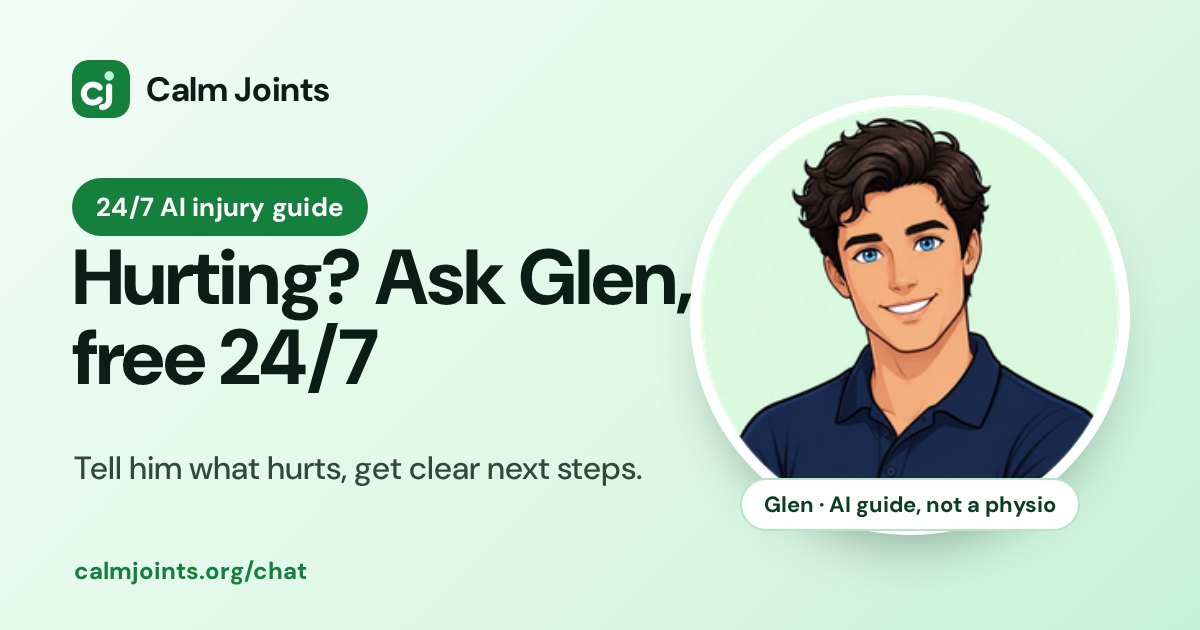
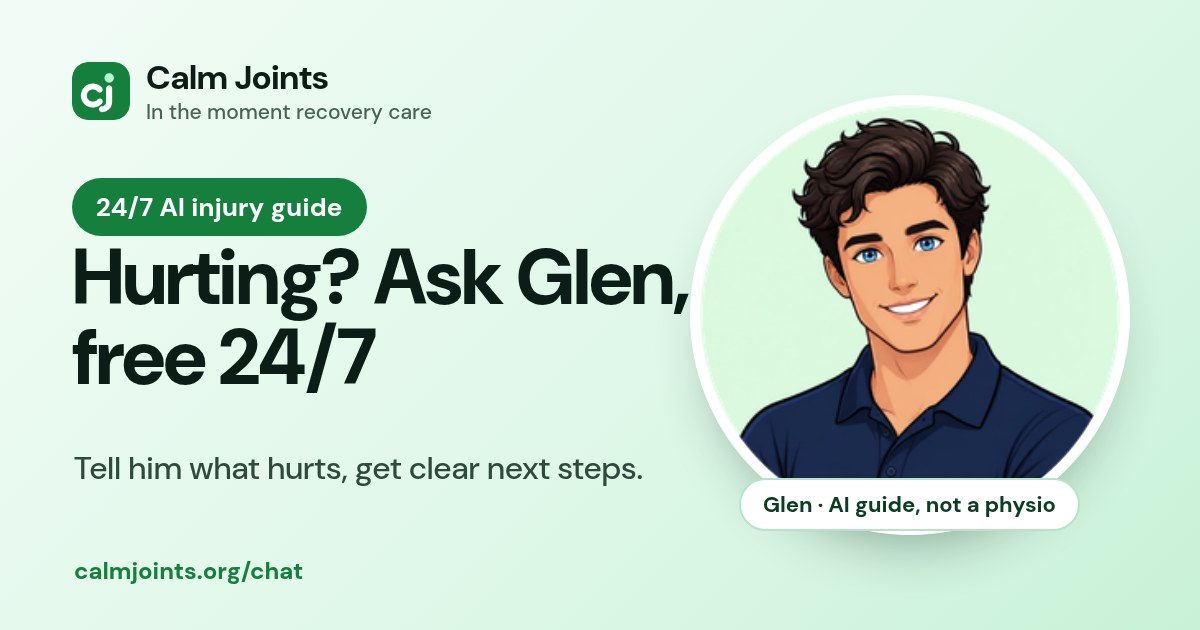
Slogan: 'In the moment recovery care' under the wordmark in the site header (home, partners, blog), the guide/chat header, and the /chat share image

diff --git a/blog/is-walking-good-for-hip-arthritis.html b/blog/is-walking-good-for-hip-arthritis.html
@@ -27,9 +27,9 @@ details{border-bottom:1px solid var(--line);padding:.8rem 0}summary{font-weight:
 .card div{padding:1rem 1.2rem 1.3rem}.card h2{font-size:1.25rem;margin:.3rem 0 .5rem}.card p{color:var(--mute);margin:0;font-size:.98rem}
 .related a{display:block;margin:.4rem 0}
 footer{border-top:1px solid var(--line);margin-top:3rem;padding:2rem 0;color:var(--mute);font-size:.9rem}
-</style><script type="application/ld+json">{"@context": "https://schema.org", "@graph": [{"@type": "Article", "headline": "Is walking good for hip arthritis? What the research says", "description": "Walking is usually a good option for hip arthritis if you pace it. See what research shows, how to start, and when to book virtual physio in Canada.", "datePublished": "2026-10-01", "dateModified": "2026-10-01", "author": {"@type": "Organization", "name": "Calm Joints clinical team"}, "publisher": {"@type": "Organization", "name": "Calm Joints", "logo": {"@type": "ImageObject", "url": "https://calmjoints.org/media/icon-512.png"}}, "mainEntityOfPage": "https://calmjoints.org/blog/is-walking-good-for-hip-arthritis", "image": "https://calmjoints.org/media/blog/is-walking-good-for-hip-arthritis.svg", "citation": ["https://pubmed.ncbi.nlm.nih.gov/31278997/", "https://www.jospt.org/doi/10.2519/jospt.2025.0301", "https://arthritis.ca/wp-content/uploads/2025/07/OA_Condensed_Booklet_EN_June26-2024_digital.pdf", "https://www.cochrane.org/evidence/CD007912_exercise-effective-therapy-hip-osteoarthritis", "https://pubmed.ncbi.nlm.nih.gov/27129607/", "https://www.jospt.org/doi/10.2519/jospt.2025.13366", "https://arthritis.ca/support-education/local-support/arthritis-rehabilitation-education-program/", "https://www.nhs.uk/conditions/hip-pain/"]}, {"@type": "FAQPage", "mainEntity": [{"@type": "Question", "name": "Is walking good for hip arthritis?", "acceptedAnswer": {"@type": "Answer", "text": "Yes for most people. Guidelines recommend land-based exercise, and walking is one way to do the aerobic part. Keep the dose small enough that the hip is not clearly worse the next day."}}, {"@type": "Question", "name": "Can walking make hip osteoarthritis worse?", "acceptedAnswer": {"@type": "Answer", "text": "A single hard walk can flare symptoms. Research does not support the idea that regular, tolerable walking is harmful. Average benefits of exercise are small, so pacing matters more than pushing through a limp."}}, {"@type": "Question", "name": "How long should I walk with an arthritic hip?", "acceptedAnswer": {"@type": "Answer", "text": "Start with a flat walk you can repeat tomorrow, often about ten minutes. Add a couple of minutes only when the next day is the same or better. Arthritis education in Canada uses 150 minutes a week of moderate activity as a later target, only if you tolerate it."}}, {"@type": "Question", "name": "Are poles or a cane useful?", "acceptedAnswer": {"@type": "Answer", "text": "Nordic walking with poles improved function more than strength training or home exercise in one trial of adults 60 and older with hip osteoarthritis. A cane in the opposite hand is reasonable if you limp or feel unsteady, after a physio checks your gait."}}, {"@type": "Question", "name": "Does virtual physio work for hip pain?", "acceptedAnswer": {"@type": "Answer", "text": "Video rehabilitation reduced pain compared with usual care in a 2025 review of chronic muscle and joint pain. It is a fair way to get a walking and strength plan. It is not a substitute for urgent care after a fall or if the joint is hot and you have a fever."}}, {"@type": "Question", "name": "Is physio covered in Canada for hip arthritis?", "acceptedAnswer": {"@type": "Answer", "text": "Extended health plans often cover physiotherapy. In Ontario, the Arthritis Rehabilitation and Education Program can provide free arthritis physiotherapy, including virtual care, if you have an Ontario health card and a confirmed arthritis diagnosis. Routine community physio is not an OHIP benefit for most adults."}}]}]}</script><link rel="stylesheet" href="/css/calm-extras.css">
+</style><script type="application/ld+json">{"@context": "https://schema.org", "@graph": [{"@type": "Article", "headline": "Is walking good for hip arthritis? What the research says", "description": "Walking is usually a good option for hip arthritis if you pace it. See what research shows, how to start, and when to book virtual physio in Canada.", "datePublished": "2026-10-01", "dateModified": "2026-10-01", "author": {"@type": "Organization", "name": "Calm Joints clinical team"}, "publisher": {"@type": "Organization", "name": "Calm Joints", "logo": {"@type": "ImageObject", "url": "https://calmjoints.org/media/icon-512.png"}}, "mainEntityOfPage": "https://calmjoints.org/blog/is-walking-good-for-hip-arthritis", "image": "https://calmjoints.org/media/blog/is-walking-good-for-hip-arthritis.svg", "citation": ["https://pubmed.ncbi.nlm.nih.gov/31278997/", "https://www.jospt.org/doi/10.2519/jospt.2025.0301", "https://arthritis.ca/wp-content/uploads/2025/07/OA_Condensed_Booklet_EN_June26-2024_digital.pdf", "https://www.cochrane.org/evidence/CD007912_exercise-effective-therapy-hip-osteoarthritis", "https://pubmed.ncbi.nlm.nih.gov/27129607/", "https://www.jospt.org/doi/10.2519/jospt.2025.13366", "https://arthritis.ca/support-education/local-support/arthritis-rehabilitation-education-program/", "https://www.nhs.uk/conditions/hip-pain/"]}, {"@type": "FAQPage", "mainEntity": [{"@type": "Question", "name": "Is walking good for hip arthritis?", "acceptedAnswer": {"@type": "Answer", "text": "Yes for most people. Guidelines recommend land-based exercise, and walking is one way to do the aerobic part. Keep the dose small enough that the hip is not clearly worse the next day."}}, {"@type": "Question", "name": "Can walking make hip osteoarthritis worse?", "acceptedAnswer": {"@type": "Answer", "text": "A single hard walk can flare symptoms. Research does not support the idea that regular, tolerable walking is harmful. Average benefits of exercise are small, so pacing matters more than pushing through a limp."}}, {"@type": "Question", "name": "How long should I walk with an arthritic hip?", "acceptedAnswer": {"@type": "Answer", "text": "Start with a flat walk you can repeat tomorrow, often about ten minutes. Add a couple of minutes only when the next day is the same or better. Arthritis education in Canada uses 150 minutes a week of moderate activity as a later target, only if you tolerate it."}}, {"@type": "Question", "name": "Are poles or a cane useful?", "acceptedAnswer": {"@type": "Answer", "text": "Nordic walking with poles improved function more than strength training or home exercise in one trial of adults 60 and older with hip osteoarthritis. A cane in the opposite hand is reasonable if you limp or feel unsteady, after a physio checks your gait."}}, {"@type": "Question", "name": "Does virtual physio work for hip pain?", "acceptedAnswer": {"@type": "Answer", "text": "Video rehabilitation reduced pain compared with usual care in a 2025 review of chronic muscle and joint pain. It is a fair way to get a walking and strength plan. It is not a substitute for urgent care after a fall or if the joint is hot and you have a fever."}}, {"@type": "Question", "name": "Is physio covered in Canada for hip arthritis?", "acceptedAnswer": {"@type": "Answer", "text": "Extended health plans often cover physiotherapy. In Ontario, the Arthritis Rehabilitation and Education Program can provide free arthritis physiotherapy, including virtual care, if you have an Ontario health card and a confirmed arthritis diagnosis. Routine community physio is not an OHIP benefit for most adults."}}]}]}</script><link rel="stylesheet" href="/css/calm-extras.css?v=4">
 </head><body data-calming-pop="blog-popup">
-<header class="nav"><div class="wrap nav-inner"><a class="blog-brand" href="/" aria-label="Calm Joints home"><img src="/media/calm-joints-wordmark.svg" alt="Calm Joints" width="154" height="42"></a><nav class="nav-links" aria-label="Primary"><a href="/partners">Partnerships</a>
+<header class="nav"><div class="wrap nav-inner"><a class="blog-brand" href="/" aria-label="Calm Joints home"><img src="/media/calm-joints-wordmark.svg" alt="Calm Joints" width="154" height="42"><span class="cj-tag">In the moment recovery care</span></a><nav class="nav-links" aria-label="Primary"><a href="/partners">Partnerships</a>
       <a href="/blog">Blog</a><a href="/careers">Careers</a><a class="btn" href="/#book" data-book>Book a visit</a></nav></div></header><main class="read"><p class="kicker">Blog · Hips</p><h1>Is walking good for hip arthritis? What the research says</h1><p class="meta">By the Calm Joints physio team · Updated October 1, 2026 · 7 min read</p>
 <img class="hero" src="/media/blog/is-walking-good-for-hip-arthritis.svg" alt="Illustration of a person walking along a gentle path" width="1200" height="560">
 <p class="answer">Yes. For most people with hip osteoarthritis, walking is a sensible form of movement, not something you have to give up. Major guidelines treat structured land-based exercise, including walking-type activity, as a core part of care.<sup><a href="#s1">[1]</a></sup><sup><a href="#s2">[2]</a></sup> The average pain change from exercise is small, so walking works best as a paced habit alongside strength work, not as a cure.<sup><a href="#s4">[4]</a></sup></p><h2>Is walking good for hip arthritis?</h2>

diff --git a/blog/knee-pain-going-down-stairs.html b/blog/knee-pain-going-down-stairs.html
@@ -27,9 +27,9 @@ details{border-bottom:1px solid var(--line);padding:.8rem 0}summary{font-weight:
 .card div{padding:1rem 1.2rem 1.3rem}.card h2{font-size:1.25rem;margin:.3rem 0 .5rem}.card p{color:var(--mute);margin:0;font-size:.98rem}
 .related a{display:block;margin:.4rem 0}
 footer{border-top:1px solid var(--line);margin-top:3rem;padding:2rem 0;color:var(--mute);font-size:.9rem}
-</style><script type="application/ld+json">{"@context": "https://schema.org", "@graph": [{"@type": "Article", "headline": "Knee pain going down stairs: why it happens and what actually helps", "description": "Why your knee hurts on the way down stairs, what the research says actually helps, and 4 physio-approved exercises you can start today.", "datePublished": "2026-10-01", "dateModified": "2026-10-01", "author": {"@type": "Organization", "name": "Calm Joints clinical team"}, "publisher": {"@type": "Organization", "name": "Calm Joints", "logo": {"@type": "ImageObject", "url": "https://calmjoints.org/media/icon-512.png"}}, "mainEntityOfPage": "https://calmjoints.org/blog/knee-pain-going-down-stairs", "image": "https://calmjoints.org/media/blog/knee-pain-going-down-stairs.svg", "citation": ["https://pmc.ncbi.nlm.nih.gov/articles/PMC4975825/", "https://pmc.ncbi.nlm.nih.gov/articles/PMC10094004/", "https://orthoinfo.aaos.org/en/diseases--conditions/patellofemoral-pain-syndrome/", "https://pubmed.ncbi.nlm.nih.gov/31278997/", "https://pubmed.ncbi.nlm.nih.gov/31908163/", "https://www.nhs.uk/conditions/knee-pain/"]}, {"@type": "FAQPage", "mainEntity": [{"@type": "Question", "name": "Is it bad to use stairs if my knee hurts?", "acceptedAnswer": {"@type": "Answer", "text": "Usually not. Staying active is recommended, and research supports strengthening rather than avoiding movement. Use a rail, take one step at a time and build strength with exercise. If you can't put weight on the knee or it's badly swollen, get checked first."}}, {"@type": "Question", "name": "What exercise is best for knee pain on stairs?", "acceptedAnswer": {"@type": "Answer", "text": "Research on patellofemoral pain recommends combining hip and knee strengthening over knee exercises alone. Bridges, side-lying leg raises, shallow wall sits and slow step-downs are common starting points."}}, {"@type": "Question", "name": "How long does it take to feel better?", "acceptedAnswer": {"@type": "Answer", "text": "It varies. In the knee osteoarthritis research, benefits from exercise programs were measured over weeks to months, with effects lasting two to six months after treatment. Consistency matters more than intensity."}}, {"@type": "Question", "name": "Can a virtual physio help with knee pain?", "acceptedAnswer": {"@type": "Answer", "text": "Yes. Research suggests real-time video physiotherapy is comparable to in-person care for improving function and pain in many musculoskeletal conditions. A physio can watch you move on camera and coach your exercises live."}}, {"@type": "Question", "name": "Should I wear a knee brace?", "acceptedAnswer": {"@type": "Answer", "text": "Braces and taping were assessed in the patellofemoral pain consensus, and exercise was the core recommendation. A physio can tell you whether a brace makes sense for your knee."}}]}]}</script><link rel="stylesheet" href="/css/calm-extras.css">
+</style><script type="application/ld+json">{"@context": "https://schema.org", "@graph": [{"@type": "Article", "headline": "Knee pain going down stairs: why it happens and what actually helps", "description": "Why your knee hurts on the way down stairs, what the research says actually helps, and 4 physio-approved exercises you can start today.", "datePublished": "2026-10-01", "dateModified": "2026-10-01", "author": {"@type": "Organization", "name": "Calm Joints clinical team"}, "publisher": {"@type": "Organization", "name": "Calm Joints", "logo": {"@type": "ImageObject", "url": "https://calmjoints.org/media/icon-512.png"}}, "mainEntityOfPage": "https://calmjoints.org/blog/knee-pain-going-down-stairs", "image": "https://calmjoints.org/media/blog/knee-pain-going-down-stairs.svg", "citation": ["https://pmc.ncbi.nlm.nih.gov/articles/PMC4975825/", "https://pmc.ncbi.nlm.nih.gov/articles/PMC10094004/", "https://orthoinfo.aaos.org/en/diseases--conditions/patellofemoral-pain-syndrome/", "https://pubmed.ncbi.nlm.nih.gov/31278997/", "https://pubmed.ncbi.nlm.nih.gov/31908163/", "https://www.nhs.uk/conditions/knee-pain/"]}, {"@type": "FAQPage", "mainEntity": [{"@type": "Question", "name": "Is it bad to use stairs if my knee hurts?", "acceptedAnswer": {"@type": "Answer", "text": "Usually not. Staying active is recommended, and research supports strengthening rather than avoiding movement. Use a rail, take one step at a time and build strength with exercise. If you can't put weight on the knee or it's badly swollen, get checked first."}}, {"@type": "Question", "name": "What exercise is best for knee pain on stairs?", "acceptedAnswer": {"@type": "Answer", "text": "Research on patellofemoral pain recommends combining hip and knee strengthening over knee exercises alone. Bridges, side-lying leg raises, shallow wall sits and slow step-downs are common starting points."}}, {"@type": "Question", "name": "How long does it take to feel better?", "acceptedAnswer": {"@type": "Answer", "text": "It varies. In the knee osteoarthritis research, benefits from exercise programs were measured over weeks to months, with effects lasting two to six months after treatment. Consistency matters more than intensity."}}, {"@type": "Question", "name": "Can a virtual physio help with knee pain?", "acceptedAnswer": {"@type": "Answer", "text": "Yes. Research suggests real-time video physiotherapy is comparable to in-person care for improving function and pain in many musculoskeletal conditions. A physio can watch you move on camera and coach your exercises live."}}, {"@type": "Question", "name": "Should I wear a knee brace?", "acceptedAnswer": {"@type": "Answer", "text": "Braces and taping were assessed in the patellofemoral pain consensus, and exercise was the core recommendation. A physio can tell you whether a brace makes sense for your knee."}}]}]}</script><link rel="stylesheet" href="/css/calm-extras.css?v=4">
 </head><body data-calming-pop="blog-popup">
-<header class="nav"><div class="wrap nav-inner"><a class="blog-brand" href="/" aria-label="Calm Joints home"><img src="/media/calm-joints-wordmark.svg" alt="Calm Joints" width="154" height="42"></a><nav class="nav-links" aria-label="Primary"><a href="/partners">Partnerships</a>
+<header class="nav"><div class="wrap nav-inner"><a class="blog-brand" href="/" aria-label="Calm Joints home"><img src="/media/calm-joints-wordmark.svg" alt="Calm Joints" width="154" height="42"><span class="cj-tag">In the moment recovery care</span></a><nav class="nav-links" aria-label="Primary"><a href="/partners">Partnerships</a>
       <a href="/blog">Blog</a><a href="/careers">Careers</a><a class="btn" href="/#book" data-book>Book a visit</a></nav></div></header><main class="read"><p class="kicker">Blog · Knees</p><h1>Knee pain going down stairs: why it happens and what actually helps</h1><p class="meta">By the Calm Joints physio team · Updated October 1, 2026 · 7 min read</p>
 <img class="hero" src="/media/blog/knee-pain-going-down-stairs.svg" alt="Illustration of a person walking down a staircase" width="1200" height="560">
 <p class="answer">Knee pain on the way down stairs is most often linked to pain around the kneecap (patellofemoral pain) or knee osteoarthritis. The best-supported fix is not rest. It's a strengthening program for the hips and knees, which international experts recommend for reducing pain in the short and long term.<sup><a href="#s1">[1]</a></sup></p><h2>Why does going down stairs hurt more than going up?</h2>

diff --git a/blog/is-walking-good-for-knee-arthritis.html b/blog/is-walking-good-for-knee-arthritis.html
@@ -27,9 +27,9 @@ details{border-bottom:1px solid var(--line);padding:.8rem 0}summary{font-weight:
 .card div{padding:1rem 1.2rem 1.3rem}.card h2{font-size:1.25rem;margin:.3rem 0 .5rem}.card p{color:var(--mute);margin:0;font-size:.98rem}
 .related a{display:block;margin:.4rem 0}
 footer{border-top:1px solid var(--line);margin-top:3rem;padding:2rem 0;color:var(--mute);font-size:.9rem}
-</style><script type="application/ld+json">{"@context": "https://schema.org", "@graph": [{"@type": "Article", "headline": "Is walking good for knee arthritis? What the research says", "description": "Worried walking will wear out your arthritic knees? Research on 1,212 adults says the opposite. Here's what the evidence shows, plus how to start.", "datePublished": "2026-10-01", "dateModified": "2026-10-01", "author": {"@type": "Organization", "name": "Calm Joints clinical team"}, "publisher": {"@type": "Organization", "name": "Calm Joints", "logo": {"@type": "ImageObject", "url": "https://calmjoints.org/media/icon-512.png"}}, "mainEntityOfPage": "https://calmjoints.org/blog/is-walking-good-for-knee-arthritis", "image": "https://calmjoints.org/media/blog/is-walking-good-for-knee-arthritis.svg", "citation": ["https://pmc.ncbi.nlm.nih.gov/articles/PMC9529782/", "https://pmc.ncbi.nlm.nih.gov/articles/PMC10094004/", "https://pubmed.ncbi.nlm.nih.gov/31908163/", "https://arthritis.ca/about-arthritis/arthritis-types-(a-z)/types/osteoarthritis", "https://pubmed.ncbi.nlm.nih.gov/31278997/", "https://www.nhs.uk/conditions/osteoarthritis/"]}, {"@type": "FAQPage", "mainEntity": [{"@type": "Question", "name": "How much walking is good for knee arthritis?", "acceptedAnswer": {"@type": "Answer", "text": "Start with what feels easy, often 10\u201315 minutes, and build up gradually. Use how your knee feels the next morning as your guide. A physio can set a personalised target."}}, {"@type": "Question", "name": "Is it OK to walk if my knee aches a bit?", "acceptedAnswer": {"@type": "Answer", "text": "Mild aching during or after walking is common with arthritis and isn't necessarily harmful. If pain is sharp, builds over the day or is worse the next morning, scale back and talk to a physio."}}, {"@type": "Question", "name": "Is walking better than cycling or swimming for knee arthritis?", "acceptedAnswer": {"@type": "Answer", "text": "All can help. Guidelines recommend exercise broadly, and the best option is one you'll keep doing. Walking is free and easy to start, and the research above specifically studied it."}}, {"@type": "Question", "name": "Does walking make arthritis worse?", "acceptedAnswer": {"@type": "Answer", "text": "In the Osteoarthritis Initiative data, people with knee arthritis who walked for exercise were less likely to develop new frequent knee pain, and their X-ray changes progressed less often."}}, {"@type": "Question", "name": "Can physio help knee arthritis without surgery?", "acceptedAnswer": {"@type": "Answer", "text": "Yes. Exercise is a core, first-line, non-surgical treatment in major international osteoarthritis guidelines."}}]}]}</script><link rel="stylesheet" href="/css/calm-extras.css">
+</style><script type="application/ld+json">{"@context": "https://schema.org", "@graph": [{"@type": "Article", "headline": "Is walking good for knee arthritis? What the research says", "description": "Worried walking will wear out your arthritic knees? Research on 1,212 adults says the opposite. Here's what the evidence shows, plus how to start.", "datePublished": "2026-10-01", "dateModified": "2026-10-01", "author": {"@type": "Organization", "name": "Calm Joints clinical team"}, "publisher": {"@type": "Organization", "name": "Calm Joints", "logo": {"@type": "ImageObject", "url": "https://calmjoints.org/media/icon-512.png"}}, "mainEntityOfPage": "https://calmjoints.org/blog/is-walking-good-for-knee-arthritis", "image": "https://calmjoints.org/media/blog/is-walking-good-for-knee-arthritis.svg", "citation": ["https://pmc.ncbi.nlm.nih.gov/articles/PMC9529782/", "https://pmc.ncbi.nlm.nih.gov/articles/PMC10094004/", "https://pubmed.ncbi.nlm.nih.gov/31908163/", "https://arthritis.ca/about-arthritis/arthritis-types-(a-z)/types/osteoarthritis", "https://pubmed.ncbi.nlm.nih.gov/31278997/", "https://www.nhs.uk/conditions/osteoarthritis/"]}, {"@type": "FAQPage", "mainEntity": [{"@type": "Question", "name": "How much walking is good for knee arthritis?", "acceptedAnswer": {"@type": "Answer", "text": "Start with what feels easy, often 10\u201315 minutes, and build up gradually. Use how your knee feels the next morning as your guide. A physio can set a personalised target."}}, {"@type": "Question", "name": "Is it OK to walk if my knee aches a bit?", "acceptedAnswer": {"@type": "Answer", "text": "Mild aching during or after walking is common with arthritis and isn't necessarily harmful. If pain is sharp, builds over the day or is worse the next morning, scale back and talk to a physio."}}, {"@type": "Question", "name": "Is walking better than cycling or swimming for knee arthritis?", "acceptedAnswer": {"@type": "Answer", "text": "All can help. Guidelines recommend exercise broadly, and the best option is one you'll keep doing. Walking is free and easy to start, and the research above specifically studied it."}}, {"@type": "Question", "name": "Does walking make arthritis worse?", "acceptedAnswer": {"@type": "Answer", "text": "In the Osteoarthritis Initiative data, people with knee arthritis who walked for exercise were less likely to develop new frequent knee pain, and their X-ray changes progressed less often."}}, {"@type": "Question", "name": "Can physio help knee arthritis without surgery?", "acceptedAnswer": {"@type": "Answer", "text": "Yes. Exercise is a core, first-line, non-surgical treatment in major international osteoarthritis guidelines."}}]}]}</script><link rel="stylesheet" href="/css/calm-extras.css?v=4">
 </head><body data-calming-pop="blog-popup">
-<header class="nav"><div class="wrap nav-inner"><a class="blog-brand" href="/" aria-label="Calm Joints home"><img src="/media/calm-joints-wordmark.svg" alt="Calm Joints" width="154" height="42"></a><nav class="nav-links" aria-label="Primary"><a href="/partners">Partnerships</a>
+<header class="nav"><div class="wrap nav-inner"><a class="blog-brand" href="/" aria-label="Calm Joints home"><img src="/media/calm-joints-wordmark.svg" alt="Calm Joints" width="154" height="42"><span class="cj-tag">In the moment recovery care</span></a><nav class="nav-links" aria-label="Primary"><a href="/partners">Partnerships</a>
       <a href="/blog">Blog</a><a href="/careers">Careers</a><a class="btn" href="/#book" data-book>Book a visit</a></nav></div></header><main class="read"><p class="kicker">Blog · Arthritis</p><h1>Is walking good for knee arthritis? What the research says</h1><p class="meta">By the Calm Joints physio team · Updated October 1, 2026 · 6 min read</p>
 <img class="hero" src="/media/blog/is-walking-good-for-knee-arthritis.svg" alt="Illustration of a person walking along a gentle path" width="1200" height="560">
 <p class="answer">Yes. For most people with knee osteoarthritis, walking is safe and helpful. In a study of 1,212 adults aged 50 and older with knee arthritis, those who walked for exercise were less likely to develop new frequent knee pain than those who didn't.<sup><a href="#s1">[1]</a></sup> Exercise is a first-line treatment in major arthritis guidelines.<sup><a href="#s3">[3]</a></sup></p><h2>Won't walking wear out my knees faster?</h2>

diff --git a/blog/does-virtual-physiotherapy-work.html b/blog/does-virtual-physiotherapy-work.html
@@ -27,9 +27,9 @@ details{border-bottom:1px solid var(--line);padding:.8rem 0}summary{font-weight:
 .card div{padding:1rem 1.2rem 1.3rem}.card h2{font-size:1.25rem;margin:.3rem 0 .5rem}.card p{color:var(--mute);margin:0;font-size:.98rem}
 .related a{display:block;margin:.4rem 0}
 footer{border-top:1px solid var(--line);margin-top:3rem;padding:2rem 0;color:var(--mute);font-size:.9rem}
-</style><script type="application/ld+json">{"@context": "https://schema.org", "@graph": [{"@type": "Article", "headline": "Does virtual physiotherapy actually work?", "description": "Can a physio really help you through a screen? Here's what a review of 13 studies found, where the evidence is mixed, and how to get the most from a visit.", "datePublished": "2026-10-01", "dateModified": "2026-10-01", "author": {"@type": "Organization", "name": "Calm Joints clinical team"}, "publisher": {"@type": "Organization", "name": "Calm Joints", "logo": {"@type": "ImageObject", "url": "https://calmjoints.org/media/icon-512.png"}}, "mainEntityOfPage": "https://calmjoints.org/blog/does-virtual-physiotherapy-work", "image": "https://calmjoints.org/media/blog/does-virtual-physiotherapy-work.svg", "citation": ["https://pubmed.ncbi.nlm.nih.gov/27141087/", "https://pubmed.ncbi.nlm.nih.gov/31748198/", "https://pubmed.ncbi.nlm.nih.gov/31278997/", "https://physiotherapy.ca/"]}, {"@type": "FAQPage", "mainEntity": [{"@type": "Question", "name": "Is virtual physiotherapy as good as in-person?", "acceptedAnswer": {"@type": "Answer", "text": "For many musculoskeletal conditions, research suggests real-time video physiotherapy is comparable to face-to-face care for improving function and pain. It isn't right for every situation, such as a new serious injury."}}, {"@type": "Question", "name": "What happens in a virtual physio appointment?", "acceptedAnswer": {"@type": "Answer", "text": "Your physio asks about your history and goals, watches you move through simple tests on camera, explains what's likely going on and teaches you exercises, correcting your form live."}}, {"@type": "Question", "name": "What do I need for a virtual physio visit?", "acceptedAnswer": {"@type": "Answer", "text": "A phone, tablet or laptop with a camera, a stable internet connection, a bit of floor space, a sturdy chair and comfortable clothing."}}, {"@type": "Question", "name": "Is virtual physiotherapy covered by insurance in Canada?", "acceptedAnswer": {"@type": "Answer", "text": "Many extended health plans cover physiotherapy, and some include virtual visits. Coverage varies, so check your plan or ask your provider before booking."}}, {"@type": "Question", "name": "Can I do virtual physio for arthritis?", "acceptedAnswer": {"@type": "Answer", "text": "Yes. Exercise and education are first-line treatments for osteoarthritis, and both can be delivered effectively by video."}}]}]}</script><link rel="stylesheet" href="/css/calm-extras.css">
+</style><script type="application/ld+json">{"@context": "https://schema.org", "@graph": [{"@type": "Article", "headline": "Does virtual physiotherapy actually work?", "description": "Can a physio really help you through a screen? Here's what a review of 13 studies found, where the evidence is mixed, and how to get the most from a visit.", "datePublished": "2026-10-01", "dateModified": "2026-10-01", "author": {"@type": "Organization", "name": "Calm Joints clinical team"}, "publisher": {"@type": "Organization", "name": "Calm Joints", "logo": {"@type": "ImageObject", "url": "https://calmjoints.org/media/icon-512.png"}}, "mainEntityOfPage": "https://calmjoints.org/blog/does-virtual-physiotherapy-work", "image": "https://calmjoints.org/media/blog/does-virtual-physiotherapy-work.svg", "citation": ["https://pubmed.ncbi.nlm.nih.gov/27141087/", "https://pubmed.ncbi.nlm.nih.gov/31748198/", "https://pubmed.ncbi.nlm.nih.gov/31278997/", "https://physiotherapy.ca/"]}, {"@type": "FAQPage", "mainEntity": [{"@type": "Question", "name": "Is virtual physiotherapy as good as in-person?", "acceptedAnswer": {"@type": "Answer", "text": "For many musculoskeletal conditions, research suggests real-time video physiotherapy is comparable to face-to-face care for improving function and pain. It isn't right for every situation, such as a new serious injury."}}, {"@type": "Question", "name": "What happens in a virtual physio appointment?", "acceptedAnswer": {"@type": "Answer", "text": "Your physio asks about your history and goals, watches you move through simple tests on camera, explains what's likely going on and teaches you exercises, correcting your form live."}}, {"@type": "Question", "name": "What do I need for a virtual physio visit?", "acceptedAnswer": {"@type": "Answer", "text": "A phone, tablet or laptop with a camera, a stable internet connection, a bit of floor space, a sturdy chair and comfortable clothing."}}, {"@type": "Question", "name": "Is virtual physiotherapy covered by insurance in Canada?", "acceptedAnswer": {"@type": "Answer", "text": "Many extended health plans cover physiotherapy, and some include virtual visits. Coverage varies, so check your plan or ask your provider before booking."}}, {"@type": "Question", "name": "Can I do virtual physio for arthritis?", "acceptedAnswer": {"@type": "Answer", "text": "Yes. Exercise and education are first-line treatments for osteoarthritis, and both can be delivered effectively by video."}}]}]}</script><link rel="stylesheet" href="/css/calm-extras.css?v=4">
 </head><body data-calming-pop="blog-popup">
-<header class="nav"><div class="wrap nav-inner"><a class="blog-brand" href="/" aria-label="Calm Joints home"><img src="/media/calm-joints-wordmark.svg" alt="Calm Joints" width="154" height="42"></a><nav class="nav-links" aria-label="Primary"><a href="/partners">Partnerships</a>
+<header class="nav"><div class="wrap nav-inner"><a class="blog-brand" href="/" aria-label="Calm Joints home"><img src="/media/calm-joints-wordmark.svg" alt="Calm Joints" width="154" height="42"><span class="cj-tag">In the moment recovery care</span></a><nav class="nav-links" aria-label="Primary"><a href="/partners">Partnerships</a>
       <a href="/blog">Blog</a><a href="/careers">Careers</a><a class="btn" href="/#book" data-book>Book a visit</a></nav></div></header><main class="read"><p class="kicker">Blog · Virtual care</p><h1>Does virtual physiotherapy actually work?</h1><p class="meta">By the Calm Joints physio team · Updated October 1, 2026 · 6 min read</p>
 <img class="hero" src="/media/blog/does-virtual-physiotherapy-work.svg" alt="Illustration of a physiotherapist on a video call screen" width="1200" height="560">
 <p class="answer">For many joint and muscle problems, yes. A systematic review of 13 studies with 1,520 people found that live video physiotherapy delivered on its own was equivalent to face-to-face care for improving physical function, and pain improvement was comparable.<sup><a href="#s1">[1]</a></sup></p><h2>How can a physio help without touching me?</h2>

diff --git a/blog/index.html b/blog/index.html
@@ -27,9 +27,9 @@ details{border-bottom:1px solid var(--line);padding:.8rem 0}summary{font-weight:
 .card div{padding:1rem 1.2rem 1.3rem}.card h2{font-size:1.25rem;margin:.3rem 0 .5rem}.card p{color:var(--mute);margin:0;font-size:.98rem}
 .related a{display:block;margin:.4rem 0}
 footer{border-top:1px solid var(--line);margin-top:3rem;padding:2rem 0;color:var(--mute);font-size:.9rem}
-</style><script type="application/ld+json">{"@context": "https://schema.org", "@type": "Blog", "name": "Calm Joints Blog", "url": "https://calmjoints.org/blog", "blogPost": [{"@type": "BlogPosting", "headline": "Knee pain going down stairs: why it happens and what actually helps", "url": "https://calmjoints.org/blog/knee-pain-going-down-stairs", "datePublished": "2026-10-01"}, {"@type": "BlogPosting", "headline": "Is walking good for knee arthritis? What the research says", "url": "https://calmjoints.org/blog/is-walking-good-for-knee-arthritis", "datePublished": "2026-10-01"}, {"@type": "BlogPosting", "headline": "Does virtual physiotherapy actually work?", "url": "https://calmjoints.org/blog/does-virtual-physiotherapy-work", "datePublished": "2026-10-01"}, {"@type": "BlogPosting", "headline": "Is walking good for hip arthritis? What the research says", "url": "https://calmjoints.org/blog/is-walking-good-for-hip-arthritis", "datePublished": "2026-10-01"}]}</script><link rel="stylesheet" href="/css/calm-extras.css">
+</style><script type="application/ld+json">{"@context": "https://schema.org", "@type": "Blog", "name": "Calm Joints Blog", "url": "https://calmjoints.org/blog", "blogPost": [{"@type": "BlogPosting", "headline": "Knee pain going down stairs: why it happens and what actually helps", "url": "https://calmjoints.org/blog/knee-pain-going-down-stairs", "datePublished": "2026-10-01"}, {"@type": "BlogPosting", "headline": "Is walking good for knee arthritis? What the research says", "url": "https://calmjoints.org/blog/is-walking-good-for-knee-arthritis", "datePublished": "2026-10-01"}, {"@type": "BlogPosting", "headline": "Does virtual physiotherapy actually work?", "url": "https://calmjoints.org/blog/does-virtual-physiotherapy-work", "datePublished": "2026-10-01"}, {"@type": "BlogPosting", "headline": "Is walking good for hip arthritis? What the research says", "url": "https://calmjoints.org/blog/is-walking-good-for-hip-arthritis", "datePublished": "2026-10-01"}]}</script><link rel="stylesheet" href="/css/calm-extras.css?v=4">
 </head><body data-calming-pop="blog-popup">
-<header class="nav"><div class="wrap nav-inner"><a class="blog-brand" href="/" aria-label="Calm Joints home"><img src="/media/calm-joints-wordmark.svg" alt="Calm Joints" width="154" height="42"></a><nav class="nav-links" aria-label="Primary"><a href="/partners">Partnerships</a>
+<header class="nav"><div class="wrap nav-inner"><a class="blog-brand" href="/" aria-label="Calm Joints home"><img src="/media/calm-joints-wordmark.svg" alt="Calm Joints" width="154" height="42"><span class="cj-tag">In the moment recovery care</span></a><nav class="nav-links" aria-label="Primary"><a href="/partners">Partnerships</a>
       <a href="/blog">Blog</a><a href="/careers">Careers</a><a class="btn" href="/#book" data-book>Book a visit</a></nav></div></header><main class="wrap"><p class="kicker">Blog</p><h1>Straight answers about joint pain</h1><p class="meta" style="max-width:40rem;font-size:1.05rem">Written by our physio team. Every claim links to the research behind it, so you can see for yourself.</p><div class="cards"><a class="card" href="/blog/knee-pain-going-down-stairs"><img src="/media/blog/knee-pain-going-down-stairs.svg" alt="Illustration of a person walking down a staircase" width="1200" height="560"><div><span class="kicker" style="margin:0">Knees</span><h2>Knee pain going down stairs: why it happens and what actually helps</h2><p>Why your knee hurts on the way down stairs, what the research says actually helps, and 4 physio-approved exercises you can start today.</p></div></a><a class="card" href="/blog/is-walking-good-for-knee-arthritis"><img src="/media/blog/is-walking-good-for-knee-arthritis.svg" alt="Illustration of a person walking along a gentle path" width="1200" height="560"><div><span class="kicker" style="margin:0">Arthritis</span><h2>Is walking good for knee arthritis? What the research says</h2><p>Worried walking will wear out your arthritic knees? Research on 1,212 adults says the opposite. Here&#x27;s what the evidence shows, plus how to start.</p></div></a><a class="card" href="/blog/does-virtual-physiotherapy-work"><img src="/media/blog/does-virtual-physiotherapy-work.svg" alt="Illustration of a physiotherapist on a video call screen" width="1200" height="560"><div><span class="kicker" style="margin:0">Virtual care</span><h2>Does virtual physiotherapy actually work?</h2><p>Can a physio really help you through a screen? Here&#x27;s what a review of 13 studies found, where the evidence is mixed, and how to get the most from a visit.</p></div></a><a class="card" href="/blog/is-walking-good-for-hip-arthritis"><img src="/media/blog/is-walking-good-for-hip-arthritis.svg" alt="Illustration of a person walking along a gentle path" width="1200" height="560"><div><span class="kicker" style="margin:0">Hips</span><h2>Is walking good for hip arthritis? What the research says</h2><p>Walking is usually a good option for hip arthritis if you pace it. See what research shows, how to start, and when to book virtual physio in Canada.</p></div></a></div></main><footer><div class="wrap"><div data-calming="footer" data-placement="blog-footer"></div></div><div class="wrap">Calm Joints is a trade name of Clairvoyant Holdings Inc. Care is provided by registered physiotherapists. · <a href="/partners">Partnerships</a>
       <a href="/blog">Blog</a> · <a href="mailto:info@calmjoints.org">info@calmjoints.org</a> · <a href="#cookies" data-cookie-settings>Cookie settings</a></div></footer><script src="/config.js"></script>
 <script src="/js/book.js?v=2"></script>

diff --git a/chat.html b/chat.html
@@ -10,7 +10,7 @@
 <meta property="og:title" content="Hurting? Ask Glen, free 24/7">
 <meta property="og:description" content="Calm Joints’ AI injury guide. Tell him what hurts, get clear next steps.">
 <meta property="og:type" content="website">
-<meta property="og:image" content="https://calmjoints.org/media/og-chat.jpg">
+<meta property="og:image" content="https://calmjoints.org/media/og-chat.jpg?v=2">
 <meta property="og:image:type" content="image/jpeg">
 <meta property="og:image:alt" content="Glen, the Calm Joints AI injury guide: Hurting? Ask Glen, free 24/7">
 <meta property="og:image:width" content="1200">
@@ -18,7 +18,7 @@
 <meta name="twitter:card" content="summary_large_image">
 <meta name="twitter:title" content="Hurting? Ask Glen, free 24/7">
 <meta name="twitter:description" content="Calm Joints’ AI injury guide. Tell him what hurts, get clear next steps.">
-<meta name="twitter:image" content="https://calmjoints.org/media/og-chat.jpg">
+<meta name="twitter:image" content="https://calmjoints.org/media/og-chat.jpg?v=2">
 <meta name="twitter:image:alt" content="Glen, the Calm Joints AI injury guide">
 <meta property="og:url" content="https://calmjoints.org/chat">
 <meta name="theme-color" content="#15A34A">
@@ -28,7 +28,7 @@
 <link rel="preconnect" href="https://fonts.googleapis.com">
 <link rel="preconnect" href="https://fonts.gstatic.com" crossorigin>
 <link href="https://fonts.googleapis.com/css2?family=DM+Sans:opsz,wght@9..40,400;9..40,500;9..40,600;9..40,700&display=swap" rel="stylesheet">
-<link rel="stylesheet" href="/css/guide.css?v=9">
+<link rel="stylesheet" href="/css/guide.css?v=10">
 <style>
   html, body { margin: 0; height: 100%; background: #EDFAF4; }
   body { display: flex; align-items: center; justify-content: center; min-height: 100dvh; }
@@ -48,7 +48,7 @@
 <script src="/config.js?v=6"></script>
 <script src="/js/share.js?v=7"></script>
 <script src="/js/helped.js?v=1"></script>
-<script src="/js/guide.js?v=11"></script>
+<script src="/js/guide.js?v=12"></script>
 <script>
   (function () {
     var g = window.CJGuide.mountPage(document.getElementById('cj-guide'), { leadOpen: false });

diff --git a/index.html b/index.html
@@ -29,7 +29,7 @@
 <link rel="preconnect" href="https://fonts.gstatic.com" crossorigin>
 <link href="https://fonts.googleapis.com/css2?family=DM+Sans:opsz,wght@9..40,400;9..40,500;9..40,600;9..40,700&display=swap" rel="stylesheet">
 <script src="/config.js"></script>
-<link rel="stylesheet" href="/css/guide.css?v=9" data-cjg>
+<link rel="stylesheet" href="/css/guide.css?v=10" data-cjg>
 <script src="/js/share.js?v=7" defer data-cjs></script>
 <style>
   :root {
@@ -338,13 +338,13 @@
     .pc-ctl { display: none; }
   }
 </style>
-<link rel="stylesheet" href="/css/calm-extras.css?v=3">
+<link rel="stylesheet" href="/css/calm-extras.css?v=4">
 </head>
 <body data-calming-pop="popup">
 <a class="skip" href="#main">Skip to content</a>
 <header class="nav" id="top">
   <div class="wrap nav-inner">
-    <a class="brand" href="#top" aria-label="Calm Joints home"><img src="/media/calm-joints-wordmark.svg" alt="Calm Joints" width="154" height="42"></a>
+    <a class="brand" href="#top" aria-label="Calm Joints home"><img src="/media/calm-joints-wordmark.svg" alt="Calm Joints" width="154" height="42"><span class="cj-tag">In the moment recovery care</span></a>
     <nav class="nav-links" aria-label="Primary">
       <a href="#brands">Brands</a>
       <a href="/partners">Partnerships</a>

diff --git a/partners.html b/partners.html
@@ -181,12 +181,12 @@
   @media (max-width:900px){.why-grid{grid-template-columns:1fr 1fr}.path-grid{grid-template-columns:1fr}.path-up{writing-mode:horizontal-tb;transform:none;padding:.1rem 0}.path-up span:after{content:"\2193"}}
   @media (max-width:640px){.why-grid{gap:.6rem;margin-top:1.4rem}.bt{padding:1rem;border-radius:16px}.bt svg{width:36px;height:36px;padding:7px;margin-bottom:.4rem}.bt b{font-size:.98rem}.bt span{font-size:.84rem}.path{padding:1.3rem;border-radius:20px}.path .btn{width:100%;align-self:stretch}.tk-s{padding:.5rem .85rem}}
 </style>
-<link rel="stylesheet" href="/css/calm-extras.css?v=3">
+<link rel="stylesheet" href="/css/calm-extras.css?v=4">
 </head>
 <body>
 <header class="nav">
   <div class="wrap nav-inner">
-    <a class="brand" href="/" aria-label="Calm Joints home"><img src="/media/calm-joints-wordmark.svg" alt="Calm Joints" width="154" height="42"></a>
+    <a class="brand" href="/" aria-label="Calm Joints home"><img src="/media/calm-joints-wordmark.svg" alt="Calm Joints" width="154" height="42"><span class="cj-tag">In the moment recovery care</span></a>
     <nav class="nav-links" aria-label="Primary">
       <a href="/#brands">Brands</a>
       <a href="/partners" aria-current="page">Partnerships</a>

diff --git a/js/book.js b/js/book.js
@@ -36,7 +36,7 @@
   function loadGuide(cb) {
     if (window.CJGuide) { cb && cb(); return; }
     if (!document.querySelector('link[data-cjg]')) {
-      var l = document.createElement('link'); l.rel = 'stylesheet'; l.href = '/css/guide.css?v=9'; l.setAttribute('data-cjg', ''); document.head.appendChild(l);
+      var l = document.createElement('link'); l.rel = 'stylesheet'; l.href = '/css/guide.css?v=10'; l.setAttribute('data-cjg', ''); document.head.appendChild(l);
     }
     // One-tap share helper (js/share.js), used inside the guide.
     if (!window.CJShare && !document.querySelector('script[data-cjs]')) {
@@ -44,7 +44,7 @@
     }
     var s = document.querySelector('script[data-cjg]');
     if (!s) {
-      s = document.createElement('script'); s.src = '/js/guide.js?v=11'; s.async = true; s.setAttribute('data-cjg', '');
+      s = document.createElement('script'); s.src = '/js/guide.js?v=12'; s.async = true; s.setAttribute('data-cjg', '');
       s.addEventListener('error', function () { s.setAttribute('data-failed', '1'); });
       document.head.appendChild(s);
     }

diff --git a/js/guide.js b/js/guide.js
@@ -128,7 +128,7 @@
     var self = this, o = this.o;
     this.root.classList.add('cjg');
     this.root.innerHTML =
-      '<div class="cjg-head"><img src="/media/calm-joints-mark.svg" alt="" width="30" height="30"><b>Calm Joints</b>' +
+      '<div class="cjg-head"><img src="/media/calm-joints-mark.svg" alt="" width="30" height="30"><span class="cjg-brand"><b>Calm Joints</b><small class="cj-tag-g">In the moment recovery care</small></span>' +
       (window.CJShare ? '<button type="button" class="cjg-hshare" data-a="hshare" aria-label="Share the Calm Joints guide with somebody who has an injury"><svg viewBox="0 0 24 24" fill="none" stroke="currentColor" stroke-width="2" stroke-linecap="round" stroke-linejoin="round" aria-hidden="true"><path d="M4 12v7a2 2 0 0 0 2 2h12a2 2 0 0 0 2-2v-7"/><path d="M16 6l-4-4-4 4"/><path d="M12 2v13"/></svg>Share</button>' : '') +
       (o.onClose ? '<button type="button" class="cjg-x" aria-label="Close">&times;</button>' : '') + '</div>' +
       '<div class="cjg-body" data-s="gate">' +

diff --git a/css/calm-extras.css b/css/calm-extras.css
@@ -77,3 +77,12 @@
   a.blog-brand + .nav-links { gap:.6rem; }
   a.blog-brand + .nav-links a[href="/blog"], a.blog-brand + .nav-links a[href="/careers"] { display:none; }
 }
+
+/* Slogan under the wordmark: small, muted, aligned with the "Calm Joints" letters (text starts at 28.9% of the SVG width). */
+.nav-inner > a.brand, .nav-inner > a.blog-brand { display:inline-flex; flex-direction:column; align-items:flex-start; text-decoration:none; line-height:1; }
+.cj-tag { display:block; margin:-9px 0 0 38px; font-size:11.5px; font-weight:500; line-height:1.2; letter-spacing:.005em; color:#6B7F75; white-space:nowrap; }
+/* Phones: the header has no spare width, so the slogan stacks in two short lines inside the wordmark's own width. */
+@media (max-width:760px) {
+  .nav-inner > a.brand, .nav-inner > a.blog-brand { min-width:0; }
+  .cj-tag { margin:-8px 0 0 34px; max-width:84px; font-size:10px; line-height:1.15; white-space:normal; }
+}

diff --git a/scripts/test-guide.js b/scripts/test-guide.js
@@ -76,9 +76,9 @@ assert.ok(!JSON.stringify(body).includes('dropped'), 'no symptoms or history eve
   assert.strictEqual(neonPayload.meta.intake_prefill, true);
   assert.ok(!JSON.stringify(neonPayload).includes('do not store'));
 
-  assert.ok(fs.readFileSync('chat.html', 'utf8').includes('/js/guide.js?v=11'));
+  assert.ok(fs.readFileSync('chat.html', 'utf8').includes('/js/guide.js?v=12'));
   assert.ok(fs.readFileSync('js/guide.js', 'utf8').includes('name="intake_prefill"'));
-  assert.ok(fs.readFileSync('js/book.js', 'utf8').includes('/js/guide.js?v=11'));
+  assert.ok(fs.readFileSync('js/book.js', 'utf8').includes('/js/guide.js?v=12'));
 
   const banned = /\b(CHI|Clairvoyant|Align|Jane|Scale|Birch|BirchReserve|Silver Birch)\b/;
   for (const f of ['chat.html', 'js/guide.js', 'css/guide.css', 'js/book.js']) {
